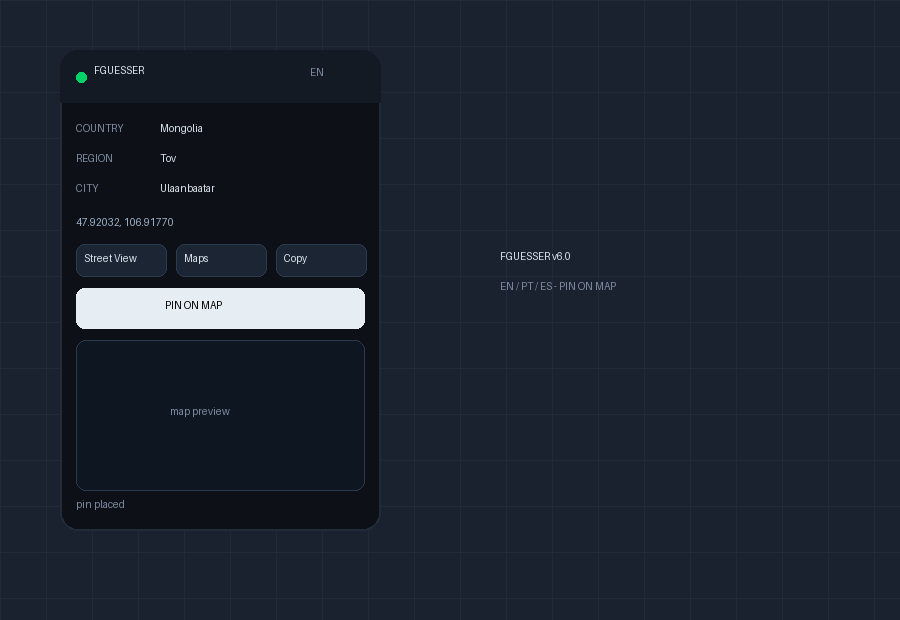
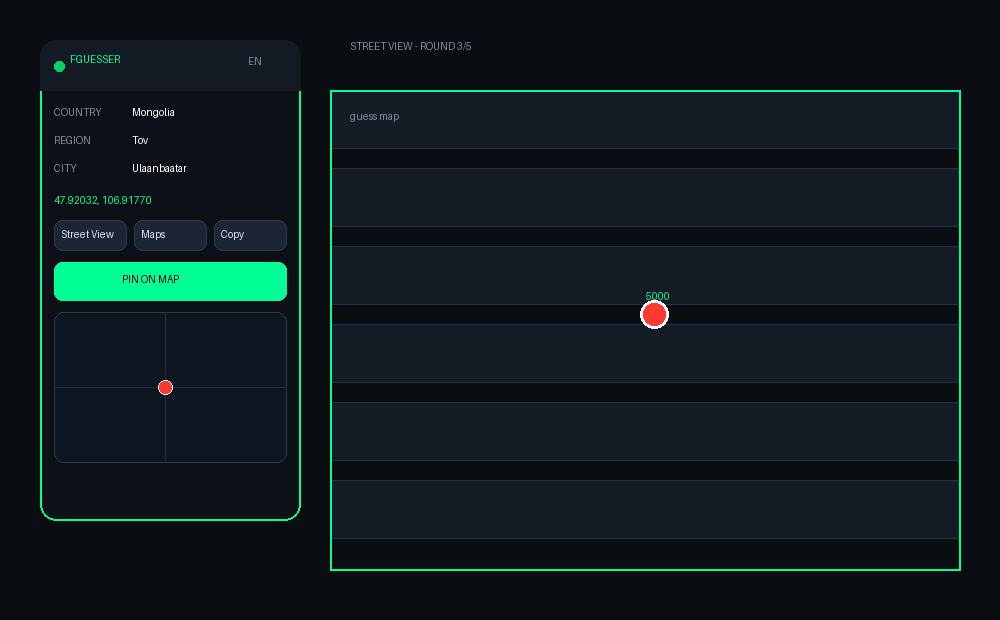
FGUESSER v1.0 initial release - GeoGuessr hack with new preview

diff --git a/FGUESSER.user.js b/FGUESSER.user.js
@@ -1,8 +1,8 @@
 // ==UserScript==
 // @name         FGUESSER
 // @namespace    fz-fguesser
-// @version      6.0
-// @description  FGUESSER - location display with fast map pin - EN/PT/ES
+// @version      1.0
+// @description  FGUESSER - GeoGuessr hack with real location reveal and fast map pin
 // @match        https://www.geoguessr.com/*
 // @grant        none
 // @run-at       document-start

diff --git a/README.md b/README.md
@@ -1,19 +1,18 @@
 # ⚡ FGUESSER
 
-Clean GeoGuessr companion panel with real location display and fast map pin.
+FGUESSER is a GeoGuessr hack that reveals the real location of any round and drops a pin straight on the in-game map.
 
-![version](https://img.shields.io/badge/version-6.0-black) ![lang](https://img.shields.io/badge/lang-EN%20%7C%20PT%20%7C%20ES-blue) ![platform](https://img.shields.io/badge/platform-Tampermonkey-orange)
+![version](https://img.shields.io/badge/version-1.0-black) ![lang](https://img.shields.io/badge/lang-EN%20%7C%20PT%20%7C%20ES-blue) ![platform](https://img.shields.io/badge/platform-Tampermonkey-orange)
 
-![FGUESSER preview](preview.png)
+![FGUESSER in action](preview.png)
 
-## Features
+## What it does
 
-- Real-time location detection via Street View metadata
-- Country / Region / City with flag
-- Embedded OpenStreetMap preview
-- Fast map pin with 60fps tracking, stays glued while panning and zooming
-- Multi-language UI: English (default), Português, Español
-- One-click Street View, Maps and Copy
+- Reveals the true coordinates of the current Street View round
+- Shows country, region and city with flag
+- Drops a red pin on the GeoGuessr guess map at the exact spot
+- Embedded map preview of the real location
+- Interface in English (default), Português and Español
 - Works in Classic, Streaks, Duels and Party
 
 ## Install
@@ -23,33 +22,24 @@ Clean GeoGuessr companion panel with real location display and fast map pin.
 3. Paste the full content of `FGUESSER.user.js`
 4. Save with `Ctrl+S` and reload GeoGuessr
 
-## Usage
+## How to use
 
-1. Join any game
-2. Wait for the green dot + location info
-3. Click `PIN ON MAP` or press `6` to place the pin on the in-game map
-4. Press `1` to hide / show the panel
-5. Switch language anytime via the EN / PT / ES selector
+1. Join any GeoGuessr game
+2. Wait for the green dot — the real location appears in the panel
+3. Click `PIN ON MAP` or press `6` and the pin lands on the exact spot
+4. Confirm your guess in game and collect the 5000
+5. Press `1` to hide / show the panel
 
 ## Shortcuts
 
 | Key | Action |
 |-----|--------|
 | `1` | Hide / show panel |
-| `6` | Place pin on map |
+| `6` | Drop pin on map |
 
 ## Files
 
 | File | Description |
 |------|-------------|
-| `FGUESSER.user.js` | Tampermonkey userscript |
+| `FGUESSER.user.js` | Tampermonkey userscript, install this |
 | `preview.png` | Panel preview |
-
-## Changelog
-
-### 6.0
-- Multi-language support (EN default, PT, ES)
-- Faster pin rendering with requestAnimationFrame
-- Improved map instance lookup, less drift on scroll and zoom
-- Renamed action button to `PIN ON MAP`
-- Removed auto mode for maximum stability across all game modes
